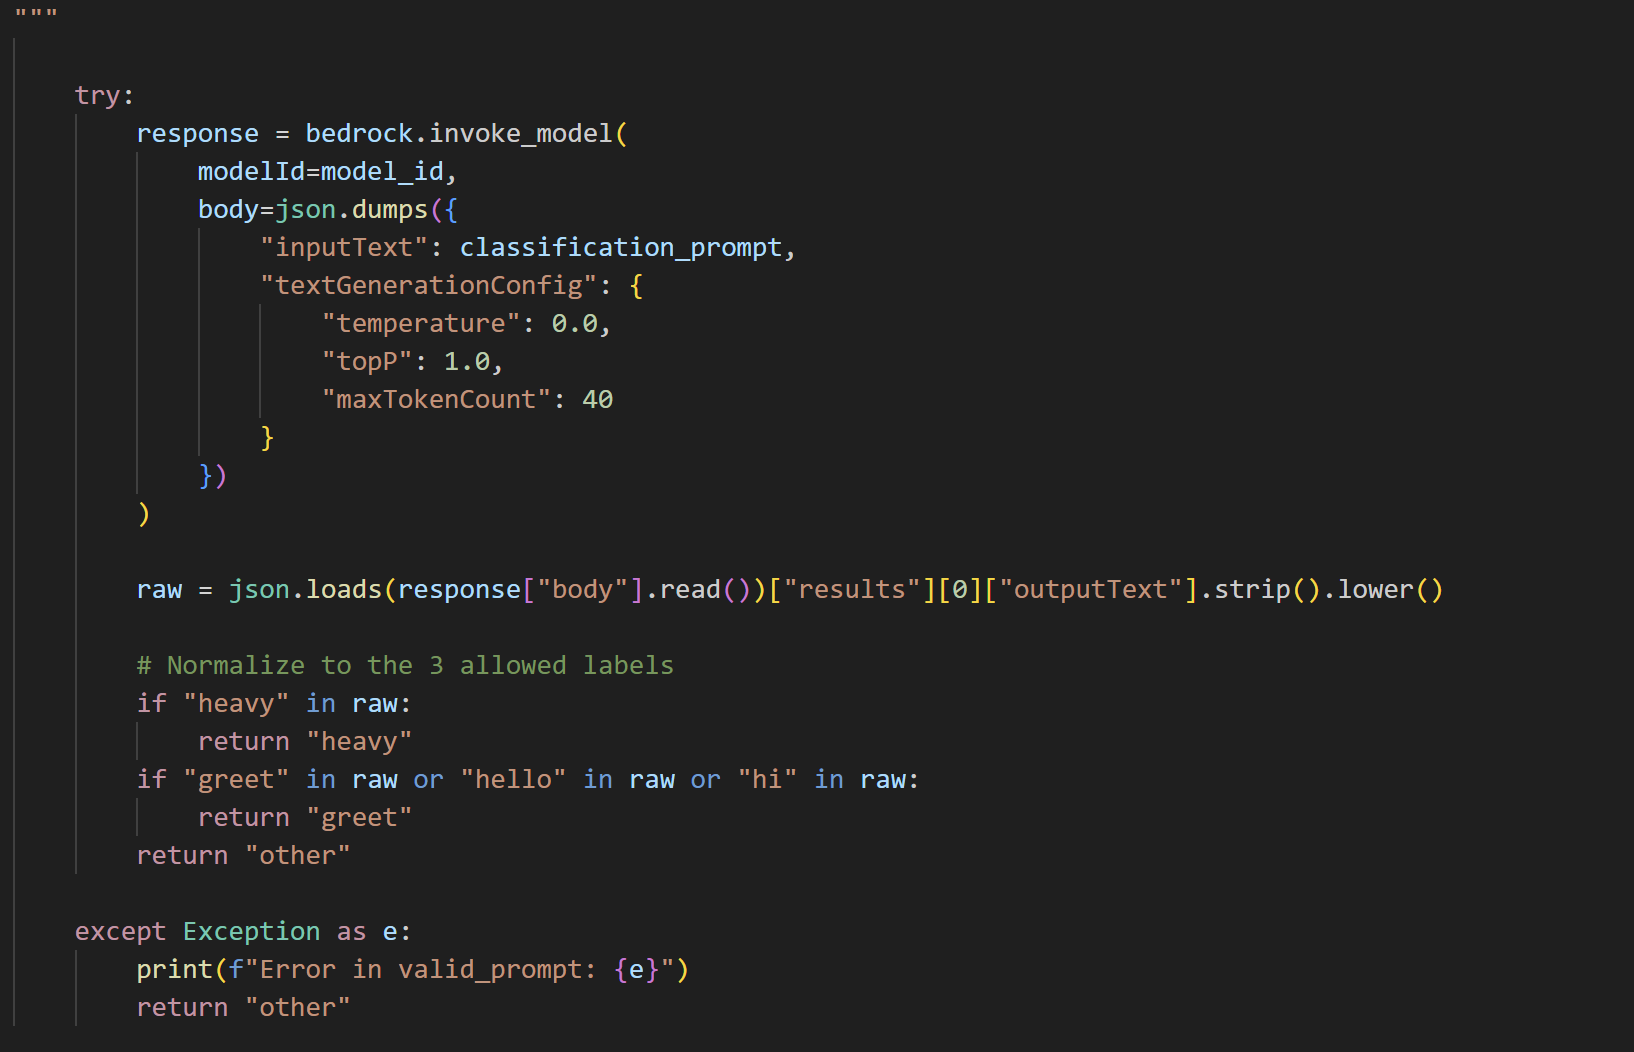
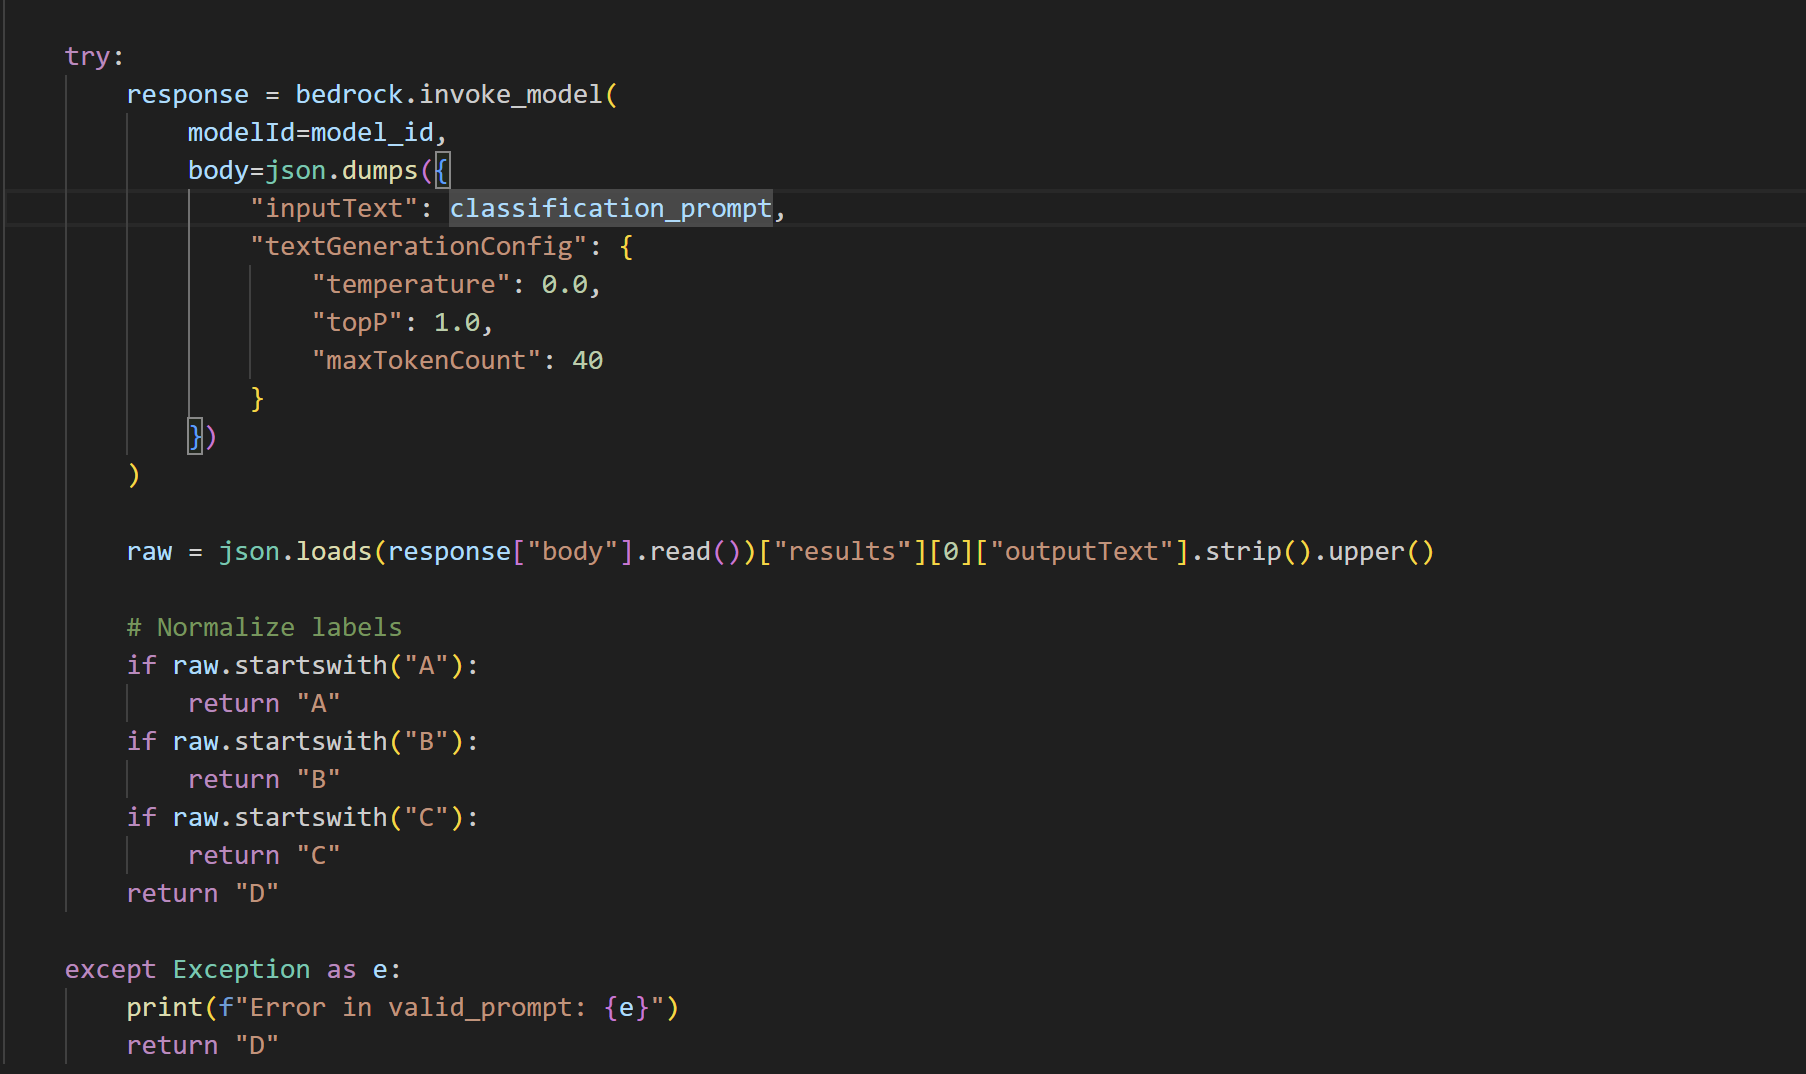
valid prompt fixed

diff --git a/bedrock_utils.py b/bedrock_utils.py
@@ -24,35 +24,34 @@ bedrock_kb = boto3.client(
 
 def valid_prompt(prompt, model_id):
     """
-    Classify a prompt into:
-        "heavy"  - heavy machinery questions
-        "greet"  - greeting / hello
-        "other"  - anything unrelated
-
-    Uses Titan model for classification.
+    Classify a prompt into categories A/B/C/D.
     """
 
     classification_prompt = f"""
 Classify the user's message into exactly ONE label:
-- heavy
-- greet
-- other
+- A
+- B
+- C
+- D
 
 Definitions:
-• greet → hi, hello, hey, good morning, emotional greetings.
-• heavy → excavators, bulldozers, forklifts, cranes, dump trucks, loaders,
-  engines, specs, maintenance, hydraulic systems, etc.
-• other → everything else.
+A → Greeting (hi, hello)
+B → Heavy machinery general (e.g., forklift, bulldozer, excavator)
+C → Heavy machinery technical (specs, engine, hydraulics, capacity)
+D → Irrelevant / anything else
 
 Examples:
 User: "hi"
-Label: greet
+Label: A
 
 User: "what is a forklift"
-Label: heavy
+Label: B
 
-User: "phishing"
-Label: other
+User: "engine capacity of komatsu pc200"
+Label: C
+
+User: "what is phishing"
+Label: D
 
 Now classify:
 User: "{prompt}"
@@ -72,19 +71,20 @@ Label:
             })
         )
 
-        raw = json.loads(response["body"].read())["results"][0]["outputText"].strip().lower()
+        raw = json.loads(response["body"].read())["results"][0]["outputText"].strip().upper()
 
-        # Normalize to the 3 allowed labels
-        if "heavy" in raw:
-            return "heavy"
-        if "greet" in raw or "hello" in raw or "hi" in raw:
-            return "greet"
-        return "other"
+        # Normalize labels
+        if raw.startswith("A"):
+            return "A"
+        if raw.startswith("B"):
+            return "B"
+        if raw.startswith("C"):
+            return "C"
+        return "D"
 
     except Exception as e:
         print(f"Error in valid_prompt: {e}")
-        return "other"
-
+        return "D"
 
 # -----------------------------
 # KB RETRIEVAL

diff --git a/app.py b/app.py
@@ -68,21 +68,25 @@ if prompt:
     cls = valid_prompt(prompt, model_id)
 
     # Greeting → simple reply
-    if cls == "greet":
+    if cls == "A":
         answer = "Hello! I'm a heavy machinery assistant. What can I help you with?"
-    # Not heavy machinery → reject
-    elif cls == "other":
+
+    elif cls == "D":
         answer = "I can only answer heavy machinery questions. Ask me about forklifts, excavators, bulldozers, etc."
-    else:
-        # heavy machinery → fetch KB only if specific
+
+    elif cls == "B":
+        # General heavy machinery → no KB
+        kb_results = []
+        answer = generate_response(prompt, kb_results, model_id, temperature, top_p)
+
+    elif cls == "C":
+        # Technical heavy machinery → use KB if specific
         if is_specific_query(prompt):
             kb_results = query_knowledge_base(prompt, kb_id)
         else:
             kb_results = []
+        answer = generate_response(prompt, kb_results, model_id, temperature, top_p)
 
-        answer = generate_response(
-            prompt, kb_results, model_id, temperature, top_p
-        )
 
     # display assistant message
     with st.chat_message("assistant"):
